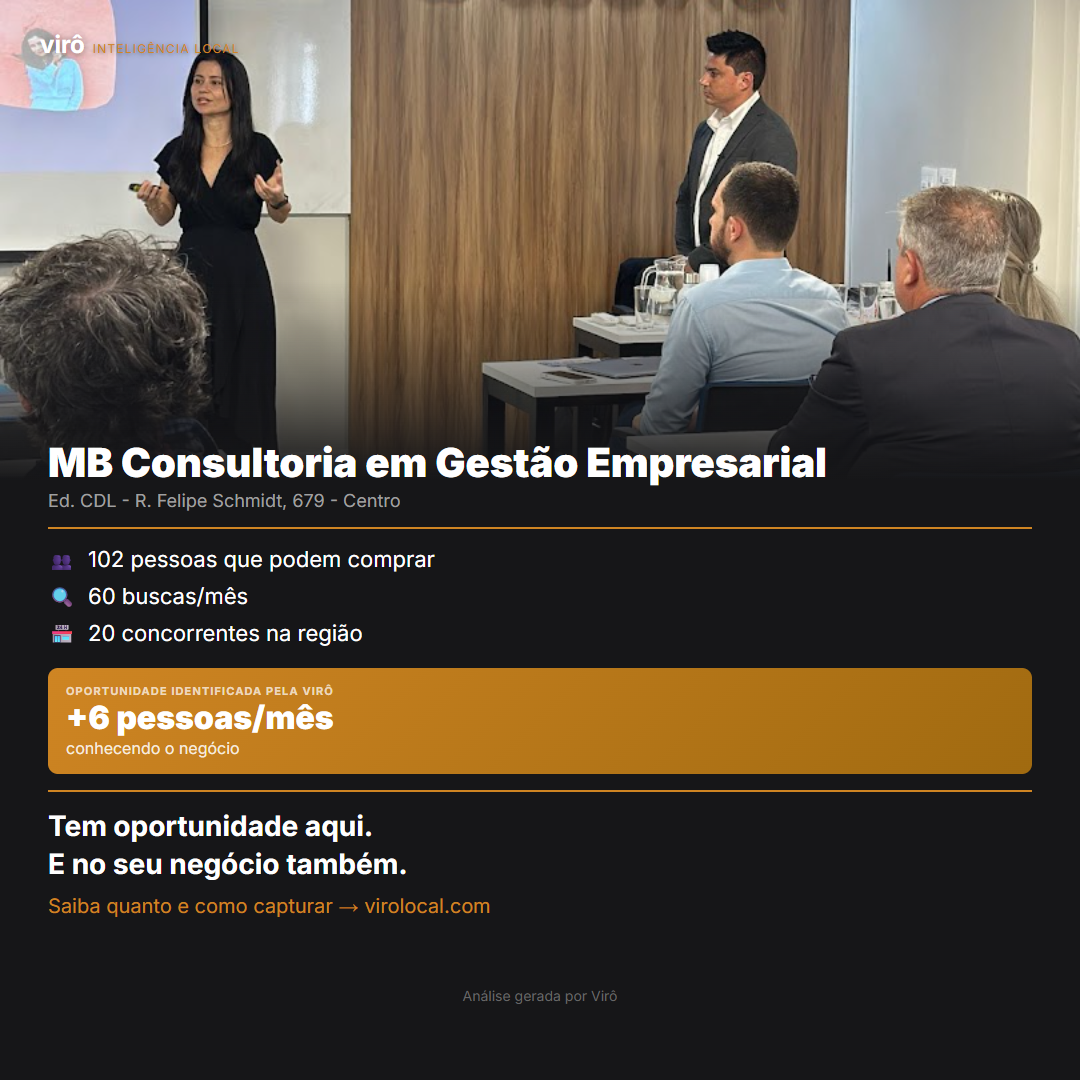
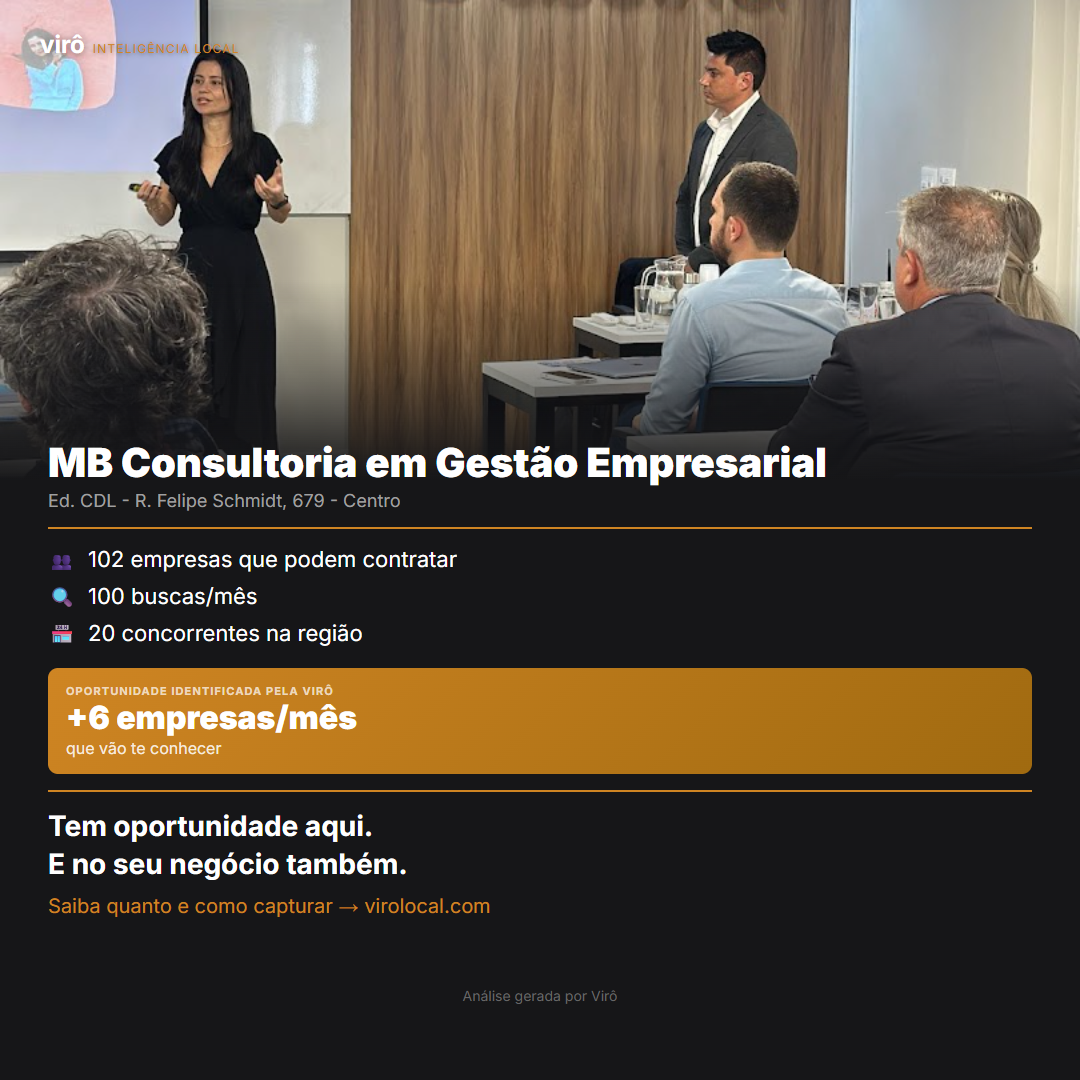
fix: labels de card adaptados por clientType (B2B/B2G/B2C) (#39)
O buildCardHTML tinha labels hardcoded 'pessoas que podem comprar' e
'+X pessoas/mes', ficando errado para leads B2B (agencia de marketing,
consultoria) e B2G.

Mudancas em scripts/content-engine.ts:
- AnalysisResult ganha campo clientType: 'b2c' | 'b2b' | 'b2g'
- analyzeBusinessSimple extrai clientType do runInstantAnalysis result
- buildCardHTML brancha labels:
  - b2c: 'pessoas que podem comprar' / '+N pessoas/mes conhecendo o negocio'
  - b2b: 'empresas que podem contratar' / '+N empresas/mes que vao te conhecer'
  - b2g: 'orgaos publicos que podem contratar' / '+N orgaos publicos/mes que vao te conhecer'
- Novo: suporte a PLACE_ID env var que bypassa fetchPlaces e chama
  Place Details diretamente, permitindo regerar um card especifico
  sem depender da ordem do Text Search.

Regerados com as labels corretas:
- ChIJbUAMmQ0DzpQRse_VyP7UZ1c (marketing agencia SP) — clientType=b2b
- ChIJo6qqqiU4J5URrHXPVL0YHrk (consultoria Floripa) — clientType=b2b

Outros 9 cards do carrossel permanecem como estavam (todos b2c, labels
ja estavam corretas).

Changed region(s): [[0.0917, 0.4889, 0.4278, 0.5806], [0.0611, 0.6417, 0.3361, 0.7028]]

diff --git a/scripts/content-engine.ts b/scripts/content-engine.ts
@@ -72,11 +72,40 @@ interface AnalysisResult {
   competitors_count: number;
   potential_customers: number;
   opportunity_customers: number;
+  clientType: 'b2c' | 'b2b' | 'b2g';
 }
 
 // ─── 1. PLACES FETCHER ──────────────────────────────────────────────────────
 
+async function fetchPlaceById(placeId: string): Promise<PlaceResult | null> {
+  console.log(`\n🔍 Buscando PLACE_ID direto: ${placeId}`);
+  const url = `https://maps.googleapis.com/maps/api/place/details/json?place_id=${placeId}&fields=place_id,name,formatted_address,geometry,rating,user_ratings_total&language=pt-BR&key=${GOOGLE_API_KEY}`;
+  const res = await fetch(url);
+  const data = await res.json();
+  if (data.status !== 'OK' || !data.result) {
+    console.error(`❌ Place Details error: ${data.status} — ${data.error_message || ''}`);
+    return null;
+  }
+  const p = data.result;
+  return {
+    place_id: p.place_id,
+    name: p.name,
+    formatted_address: p.formatted_address,
+    lat: p.geometry?.location?.lat,
+    lng: p.geometry?.location?.lng,
+    rating: p.rating || 0,
+    user_ratings_total: p.user_ratings_total || 0,
+  };
+}
+
 async function fetchPlaces(category: string, city: string): Promise<PlaceResult[]> {
+  // Se PLACE_ID env var está setada, bypassa o search e usa ID direto
+  const forcedPlaceId = process.env.PLACE_ID;
+  if (forcedPlaceId) {
+    const place = await fetchPlaceById(forcedPlaceId);
+    return place ? [place] : [];
+  }
+
   const searchTerm = CATEGORY_SEARCH_TERMS[category] || category;
   const query = `${searchTerm} em ${city}`;
   console.log(`\n🔍 Buscando: "${query}"`);
@@ -204,6 +233,7 @@ async function analyzeBusinessSimple(place: PlaceResult, category: string): Prom
       competitors_count: (result as any).competitionIndex?.activeCompetitors || 0,
       potential_customers: (result as any).audiencia?.audienciaTarget || Math.round((volumes?.totalMonthlyVolume || 500) * 0.15),
       opportunity_customers: (result as any).projecaoFinanceira?.familiasGap || 0,
+      clientType: (result as any).clientType || 'b2c',
     };
   } catch (err) {
     console.log(`   ⚠ Pipeline completo indisponível, usando estimativas: ${(err as Error).message?.slice(0, 60)}`);
@@ -220,6 +250,7 @@ async function analyzeBusinessSimple(place: PlaceResult, category: string): Prom
       competitors_count: 10, // conservative default
       potential_customers,
       opportunity_customers: Math.max(opportunity_customers, 10),
+      clientType: 'b2c',
     };
   }
 }
@@ -228,6 +259,17 @@ async function analyzeBusinessSimple(place: PlaceResult, category: string): Prom
 
 function buildCardHTML(place: PlaceResult, analysis: AnalysisResult, streetViewBase64: string): string {
   const shortAddress = place.formatted_address.split(',').slice(0, 2).join(',').trim();
+
+  // Labels adaptados ao clientType
+  const isB2B = analysis.clientType === 'b2b';
+  const isB2G = analysis.clientType === 'b2g';
+  const unitLabel = isB2G ? 'órgãos públicos' : isB2B ? 'empresas' : 'pessoas';
+  const potentialLabel = isB2G
+    ? 'órgãos públicos que podem contratar'
+    : isB2B
+    ? 'empresas que podem contratar'
+    : 'pessoas que podem comprar';
+  const oppSubtext = isB2G || isB2B ? 'que vão te conhecer' : 'conhecendo o negócio';
 
   return `<!DOCTYPE html>
 <html>
@@ -298,7 +340,7 @@ function buildCardHTML(place: PlaceResult, analysis: AnalysisResult, streetViewB
     <div class="metrics">
       <div class="metric">
         <span class="metric-icon">👥</span>
-        <span>${analysis.potential_customers.toLocaleString('pt-BR')} pessoas que podem comprar</span>
+        <span>${analysis.potential_customers.toLocaleString('pt-BR')} ${potentialLabel}</span>
       </div>
       <div class="metric">
         <span class="metric-icon">🔍</span>
@@ -312,8 +354,8 @@ function buildCardHTML(place: PlaceResult, analysis: AnalysisResult, streetViewB
 
     <div class="opportunity">
       <div class="opp-label">Oportunidade identificada pela Virô</div>
-      <div class="opp-number">+${analysis.opportunity_customers.toLocaleString('pt-BR')} pessoas/mês</div>
-      <div class="opp-text">conhecendo o negócio</div>
+      <div class="opp-number">+${analysis.opportunity_customers.toLocaleString('pt-BR')} ${unitLabel}/mês</div>
+      <div class="opp-text">${oppSubtext}</div>
     </div>
 
     <div class="separator2"></div>
